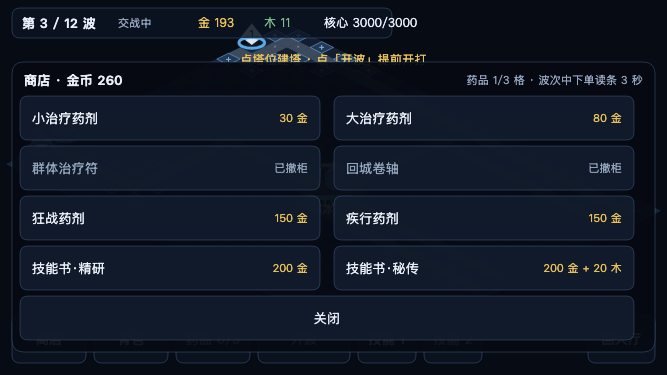
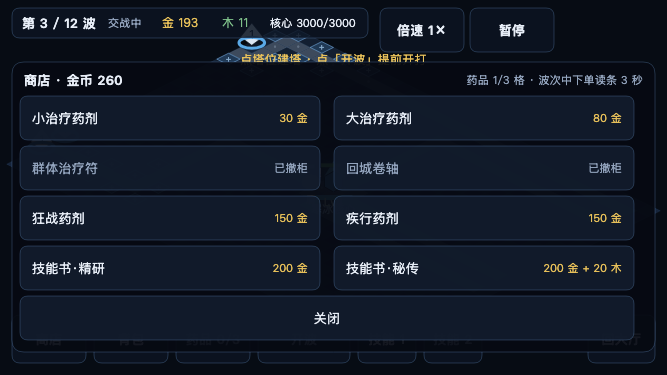
feat(minigame): 暂停 + 倍速 + 设置（第 3 步第六屏）
- 顶栏右侧加「倍速」「暂停」两键（避开胶囊区、44pt）：单机真暂停（帧循环不推内核）+ 1×/2× 倍速（每帧推两步，步长不变）
- 暂停面板三个开关都接着真东西：倍速→tick；镜头→settings.tdFitAll (fit / setCamera(zoom))；震动→settings.sfx→feedback 的 wx.vibrateShort
- **故意不摆** effects（低特效关的是飘字/脉冲，这版还没画飘字）与提示音（TD 本就没有）—— 开关必须能指出它改了哪件事
- 样张抓到一处排版：倍速键压住顶栏「核心 3000/3000」；顶栏收窄到 x=368 并加用例盯「不压顶栏、不压胶囊区」
- npm test 285 → 287 项（暂停面板布局 + 暂停/倍速/镜头/震动集成）
- 第六张样张 minigame-pause.png；本轮没碰浏览器侧代码

Changed region(s): [[0.3898, 0.0, 0.8396, 0.1467], [0.1499, 0.0293, 0.3598, 0.088], [0.7196, 0.0, 0.8096, 0.0293]]

diff --git a/src/minigame/battle.js b/src/minigame/battle.js
@@ -83,10 +83,17 @@ export function layoutBattle(model = {}) {
       { type: 'skill', index: i }, { disabled: !(model.skills?.[i] ?? i === 0) }));
   }
   items.push(item('lobby', 588, 315, 67, 48, '回大厅', { type: 'lobby' }));
+  /**
+   * 顶栏右侧那两个键：**倍速**与**暂停**（§1.9.3 的设置、§1.9.4 的「随时能停」）。
+   * 位置必须避开右上角胶囊区（官方要求），所以它们放在顶栏与胶囊之间那段空档里，高度给到 44（§1.9.2）。
+   */
+  items.push(item('speed', 380, 8, 84, 44, model.rate === 2 ? '倍速 2×' : '倍速 1×', { type: 'speed' }, { on: model.rate === 2 }));
+  items.push(item('pause', 470, 8, 84, 44, model.paused ? '继续' : '暂停', { type: 'pause' }, { on: !!model.paused }));
   return {
     w: DESIGN.w, h: DESIGN.h,
     capsule: { x: DESIGN.w - CAPSULE.w - 8, y: 6, w: CAPSULE.w, h: CAPSULE.h },
-    top: { x: 12, y: 8, w: 380, h: 30 },
+    // 顶栏只到 x=368：右边要留给倍速/暂停两个键（再往右是右上角胶囊区，官方要求避开）
+    top: { x: 12, y: 8, w: 356, h: 30 },
     result: { x: 173, y: 120, w: 320, h: 130 },
     items,
     byId: Object.fromEntries(items.map((it) => [it.id, it])),
@@ -114,11 +121,12 @@ export function drawBattleHud(ctx, m, L, { selectedTower = 'tw_arrow', message =
   ctx.strokeStyle = COLORS.panelLine;
   ctx.lineWidth = 1;
   ctx.stroke();
+  // 顶栏窄了（让出右边给倍速/暂停），所以这几格的位置跟着收——第一版没收，核心血量被按钮压住了
   text(ctx, `第 ${waveLabel}`, L.top.x + 10, L.top.y + 15, { size: 13, weight: 'bold' });
-  text(ctx, phase, L.top.x + 106, L.top.y + 15, { size: 11, color: COLORS.dim });
-  text(ctx, `金 ${Math.round(m.gold)}`, L.top.x + 186, L.top.y + 15, { size: 12, color: COLORS.gold });
-  text(ctx, `木 ${Math.round(m.lumber?.[0] ?? 0)}`, L.top.x + 252, L.top.y + 15, { size: 12, color: COLORS.wood });
-  text(ctx, `核心 ${core}`, L.top.x + 312, L.top.y + 15, { size: 12, color: m.core.hp / m.core.maxHp < 0.35 ? COLORS.danger : COLORS.ink });
+  text(ctx, phase, L.top.x + 96, L.top.y + 15, { size: 11, color: COLORS.dim });
+  text(ctx, `金 ${Math.round(m.gold)}`, L.top.x + 150, L.top.y + 15, { size: 12, color: COLORS.gold });
+  text(ctx, `木 ${Math.round(m.lumber?.[0] ?? 0)}`, L.top.x + 210, L.top.y + 15, { size: 12, color: COLORS.wood });
+  text(ctx, `核心 ${core}`, L.top.x + 258, L.top.y + 15, { size: 11, color: m.core.hp / m.core.maxHp < 0.35 ? COLORS.danger : COLORS.ink });
 
   for (const it of L.items) {
     const on = !!it.on;
@@ -234,6 +242,7 @@ export function layoutSheet(m, ui = {}) {
   if (ui?.sheetKind === 'shop') return layoutShop(m, ui);
   if (ui?.sheetKind === 'bag') return layoutBag(m, ui);
   if (ui?.sheetKind === 'item') return layoutItem(m, ui);
+  if (ui?.sheetKind === 'pause') return layoutPause(m, ui);
   const slot = ui.panelSlot ?? ui.selectedSlot ?? null;
   if (slot == null) return null;
   const t = m.towers.find((x) => x.slot === slot) ?? null;
@@ -389,6 +398,45 @@ export function layoutBag(m, ui = {}) {
     title: `背包 · ${m.inventory?.length ?? 0} 件（显示最近 ${Math.min(6, shown.length)} 件）`,
     hint: craft ? '' : '攒够 3 件同部位同品质即可一键合成',
     box: { x: 12, y: 62, w: 643, h: rowY + 44 + 12 - 62 },
+    rows, byId: Object.fromEntries(rows.map((r) => [r.id, r])),
+  };
+}
+
+/**
+ * 暂停面板（单机局才有意义：联机「不假装暂停」是 §114 那条口径；小游戏现在只有单机，所以这是真暂停）。
+ *
+ * 三个开关都**真的接在东西上**，不是摆样子：
+ *   倍速　→ 帧循环按 1× / 2× 推内核；
+ *   镜头　→ `settings.tdFitAll`（整图可见 / 放大到 settings.zoom），与浏览器版同一份设置；
+ *   震动　→ `settings.sfx` 经 `feedback.js` 的 `wx.vibrateShort`（同一份设置里的那个开关）。
+ * **没摆的两项**：`effects`（低特效档关的是飘字与脉冲，而小游戏这一版还没画飘字——摆了就是假选项）；
+ * 音效那一半要等防守模式的预警音（TD 本来就没有提示音）。
+ */
+export function layoutPause(m, ui = {}) {
+  const rows = [];
+  const sv = ui.settings ?? {};
+  rows.push({ id: 'resume', label: '继续游戏', x: 20, y: 96, w: 614, h: 44, action: { type: 'resume' } });
+  rows.push({
+    id: 'speed', label: '倍速', sub: ui.rate === 2 ? '2×' : '1×',
+    x: 20, y: 146, w: 300, h: 44, on: ui.rate === 2, action: { type: 'speed' },
+  });
+  rows.push({
+    id: 'camera', label: '镜头', sub: sv.tdFitAll === false ? '放大' : '整图',
+    x: 334, y: 146, w: 300, h: 44, on: sv.tdFitAll === false, action: { type: 'camera' },
+  });
+  rows.push({
+    id: 'sfx', label: '震动', sub: sv.sfx === false ? '关' : '开',
+    x: 20, y: 196, w: 300, h: 44, on: sv.sfx !== false, action: { type: 'sfx' },
+  });
+  rows.push({ id: 'lobby', label: '回大厅', x: 334, y: 196, w: 300, h: 44, action: { type: 'lobby' } });
+  rows.push({
+    id: 'close', label: '关掉面板（仍是暂停）', x: 20, y: 246, w: 614, h: 44, action: { type: 'close' },
+  });
+  return {
+    kind: 'pause',
+    title: '已暂停',
+    hint: `第 ${m.wave.index} / ${m.length === 'long' ? 30 : 12} 波 · 金币 ${Math.round(m.gold)}`,
+    box: { x: 12, y: 62, w: 643, h: 240 },
     rows, byId: Object.fromEntries(rows.map((r) => [r.id, r])),
   };
 }

diff --git a/src/minigame/game.js b/src/minigame/game.js
@@ -17,6 +17,8 @@ import {
   loadProfile, mapLocked, recordResult, reviveMulOf, saveProfile, startGoldOf, unlockedMaps,
 } from '../profile.js';
 import { resultSummary } from '../result.js';
+import { loadSettings, saveSettings } from '../settings.js';
+import { createHaptics } from '../feedback.js';
 import { createRenderer } from '../render.js';
 import { applyLobbyAction, drawLobby, hitTestLobby, layoutLobby } from './lobby.js';
 import {
@@ -86,6 +88,21 @@ export function startMinigame({ requestAnimationFrame: raf = globalThis.requestA
   let lobby = { model: createLobbyModel(), layout: null };
   let battle = null;
   let lastSize = '';
+  let settings = loadSettings();
+  // §1.9.2 的短震动：小游戏这次真的接上了（浏览器版靠 DOM 点击事件，这边按 touch 手动触发）
+  const tap = createHaptics({ enabled: () => settings.sfx !== false });
+
+  /** 镜头设置（§2.5）：整图可见 = `renderer.fit()`；放大 = 以核心为中心用 `settings.zoom` */
+  const applyCamera = (b) => {
+    const grid = b?.m?.map?.grid;
+    if (!grid) return;
+    if (settings.tdFitAll === false) {
+      const core = b.m.core?.cell ?? { x: grid.w / 2, y: grid.h / 2 };
+      b.renderer.setCamera(core.x, core.y, settings.zoom ?? 1.5);
+    } else {
+      b.renderer.fit(grid);
+    }
+  };
 
   const resize = () => {
     size = viewport();
@@ -119,9 +136,11 @@ export function startMinigame({ requestAnimationFrame: raf = globalThis.requestA
       m, renderer, selectedTower: 'tw_arrow', message: null, until: 0, layout: null,
       ui: { selectedSlot: null, panelSlot: null, sellArmed: false },
       extra: null,     // 结算那一下记档的收获（声望 / 升级），画面板用
+      paused: false, rate: 1,
     };
+    applyCamera(b);
     b.model = () => ({
-      ...describeBattleModel(m), selectedTower: b.selectedTower,
+      ...describeBattleModel(m), selectedTower: b.selectedTower, paused: b.paused, rate: b.rate,
       ui: b.ui, sheet: layoutSheet(m, b.ui),
     });
     b.layout = layoutBattle(b.model());
@@ -146,9 +165,17 @@ export function startMinigame({ requestAnimationFrame: raf = globalThis.requestA
     }
     const action = hitTestBattle(b.layout, x, y);
     if (action) {
+      tap('light');   // §1.9.2：按下就震一下（开关在暂停面板里，关掉就静默）
       switch (action.type) {
         case 'shop': b.ui = { sheetKind: 'shop' }; return action;
         case 'bag': b.ui = { sheetKind: 'bag' }; return action;
+        case 'speed': b.rate = b.rate === 2 ? 1 : 2; return action;
+        case 'pause': {
+          // 单机局真暂停（联机才不谈暂停，§114）；暂停时顺手把面板摊开——玩家按暂停多半是想看点东西
+          b.paused = !b.paused;
+          b.ui = b.paused ? { sheetKind: 'pause' } : { selectedSlot: null, panelSlot: null, sellArmed: false };
+          return action;
+        }
         case 'potion': {
           const id = b.m.bag.pot_small ? 'pot_small' : (b.m.bag.pot_large ? 'pot_large' : null);
           const ok = id ? usePotion(b.m, id) : false;
@@ -261,6 +288,24 @@ export function startMinigame({ requestAnimationFrame: raf = globalThis.requestA
         b.ui = { sheetKind: 'bag' };
         return action;
       }
+      // ---- 暂停面板上的四个动作 ----
+      case 'resume':
+        b.paused = false;
+        b.ui = { selectedSlot: null, panelSlot: null, sellArmed: false };
+        return action;
+      case 'camera': {
+        settings = { ...settings, tdFitAll: settings.tdFitAll === false };
+        saveSettings(settings);
+        applyCamera(b);
+        note(b, settings.tdFitAll ? '镜头：整图可见' : '镜头：放大', 1.4);
+        return action;
+      }
+      case 'sfx': {
+        settings = { ...settings, sfx: settings.sfx === false };
+        saveSettings(settings);
+        note(b, settings.sfx === false ? '震动已关' : '震动已开', 1.4);
+        return action;
+      }
       default: return action;
     }
   };
@@ -308,6 +353,7 @@ export function startMinigame({ requestAnimationFrame: raf = globalThis.requestA
   /** 推进内核（小游戏里由帧循环按真实时间驱动；本地验收里手动调它） */
   const tick = (seconds) => {
     if (!battle) return 0;
+    if (battle.paused || battle.m.result) return 0;   // 真暂停：内核一步都不走
     const steps = Math.round(seconds / TICK_STEP);
     for (let i = 0; i < steps && !battle.m.result; i += 1) update(battle.m, TICK_STEP);
     recordIfFinished(battle);
@@ -337,7 +383,7 @@ export function startMinigame({ requestAnimationFrame: raf = globalThis.requestA
   const frame = (ts = 0) => {
     if (battle) {
       const dt = last ? Math.min(0.25, (ts - last) / 1000) : 0;
-      if (dt > 0) tick(dt);
+      if (dt > 0) tick(dt * (battle.rate ?? 1));   // 倍速就是「这一帧推两步」（内核步长仍是 1/20 秒）
     }
     last = ts;
     drawFrame();

diff --git a/tests/minigame-battle.test.js b/tests/minigame-battle.test.js
@@ -15,7 +15,7 @@ import { installFakeWx } from '../tools/fake-wx.mjs';
 import { TOWER_MAX_LEVEL } from '../src/data.js';
 import { createMatch, makeEquipment, potionCount, update } from '../src/match.js';
 import { SHOP_ITEMS } from '../src/data.js';
-import { drawResult, layoutBag, layoutItem, layoutResult, layoutShop } from '../src/minigame/battle.js';
+import { drawResult, layoutBag, layoutItem, layoutPause, layoutResult, layoutShop } from '../src/minigame/battle.js';
 
 // 与 minigame-bundle.test.js 同一个道理：**各有各的产物目录**，否则并发跑会互相踩
 const OUT = mkdtempSync(join(tmpdir(), 'ff-mini-battle-'));
@@ -335,5 +335,66 @@ test('小游戏结算：一局结束后真的记档（声望 +120、解锁与大
     app.backToLobby();
     assert.equal(app.screen(), 'lobby');
     assert.equal(app.getModel().profile.reputation, 120);
+  } finally { fake.uninstall(); }
+});
+
+test('小游戏暂停面板：行都在画布内且 ≥44，倍速/镜头/震动按当前设置显示', () => {
+  const m = createMatch({ seed: 5 });
+  const sheet = layoutPause(m, { rate: 2, settings: { tdFitAll: false, sfx: false } });
+  assert.equal(sheet.kind, 'pause');
+  assert.equal(sheet.rows.length, 6, '继续 / 倍速 / 镜头 / 震动 / 回大厅 / 关面板');
+  for (const r of sheet.rows) {
+    assert.ok(r.h >= 44 && r.y + r.h <= DESIGN.h, `${r.id} 行高或位置不达标`);
+    assert.ok(!(r.x < 448 && r.y < 52 && r.x + r.w > 396), `${r.id} 压到顶栏那两个键上`);
+  }
+  assert.equal(sheet.byId.speed.sub, '2×');
+  assert.equal(sheet.byId.camera.sub, '放大', 'tdFitAll=false 时是放大');
+  assert.equal(sheet.byId.sfx.sub, '关');
+  assert.equal(sheet.byId.resume.label, '继续游戏');
+});
+
+test('小游戏暂停与倍速：暂停时内核一步不走，倍速按倍数走，镜头/震动落进设置', async () => {
+  await import('../tools/build-minigame.mjs');
+  const vib = [];
+  const fake = installFakeWx({ onVibrate: (o) => vib.push(o.type) });
+  try {
+    const require = createRequire(import.meta.url);
+    require(join(OUT, 'game.js'));
+    const app = globalThis.__frostfallLobby;
+    app.startMatch();
+    const m = app.match();
+    const tapBtn = (id) => {
+      const b = app.layout().byId[id];
+      assert.ok(b, `顶栏/底排没有 ${id}`);
+      return app.tap(b.x + b.w / 2, b.y + b.h / 2);
+    };
+    // 暂停 → 时间不动
+    tapBtn('pause');
+    assert.equal(app.getModel().paused, true);
+    assert.equal(app.getModel().sheet.kind, 'pause');
+    const t0 = m.time;
+    app.tick(30);
+    assert.equal(m.time, t0, '暂停时内核一步都不该走');
+
+    // 镜头：切成放大 → 设置里 tdFitAll=false
+    const cam = app.getModel().sheet.byId.camera;
+    app.tap(cam.x + cam.w / 2, cam.y + cam.h / 2);
+    assert.equal(JSON.parse(globalThis.wx.getStorageSync('frostfall:settings') || '{}').tdFitAll, false);
+    // 震动：关掉之后不再调 wx.vibrateShort
+    const sfx = app.getModel().sheet.byId.sfx;
+    app.tap(sfx.x + sfx.w / 2, sfx.y + sfx.h / 2);
+    assert.equal(JSON.parse(globalThis.wx.getStorageSync('frostfall:settings') || '{}').sfx, false);
+    const callsAfterMute = vib.length;
+    const resume = app.getModel().sheet.byId.resume;
+    app.tap(resume.x + resume.w / 2, resume.y + resume.h / 2);
+    assert.equal(app.getModel().paused, false, '继续之后要恢复推进');
+    assert.equal(vib.length, callsAfterMute, '关掉震动之后按按钮不该再震');
+
+    // 倍速：同一段时间走两步
+    tapBtn('speed');
+    assert.equal(app.getModel().rate, 2);
+    const t1 = m.time;
+    app.tick(10);
+    assert.ok(Math.abs((m.time - t1) - 10) < 0.2, `倍速下 tick(10) 该走 10 秒（实际 ${(m.time - t1).toFixed(1)}）`);
   } finally { fake.uninstall(); }
 });

diff --git a/docs/STATUS.md b/docs/STATUS.md
@@ -21,7 +21,7 @@
 ## 2. 一条命令复跑全部验证
 
 ```bash
-npm test        # 285 项：数值 / 波次 / 经济 / 装备 / 天赋 / 技能细节 / 存档 / 联机 / 快速匹配 / 触觉反馈 / 摇杆指令 / 溅射衰减 / 药品计数 / 解锁来源与流水 / 野外区分区 / 亚格渲染 / 克制提示 / 局内资源不外流 / 仇恨 1 秒 / 野外区文案 / 战绩分模式 / 面板可见性 / 浮层收起 / 房间码提示 / 空房保留窗口 / 联机指令出口（handler 逐个查）/ 畸形指令与限速 / 克制表与枚举对齐 / 联机镜像不落本地存档（§113） / 大厅按模式给选项（§115：防守没有「局内时长」） / 低特效档真的关脉冲（§116） / 怪物光环按半径结算（§117） / Boss 光环按地图开关（§118） / 逻辑帧步长只有一个定义（§119） / 协议版本两侧校验（§120） / 畸形 URL 参数不崩服务端（§121） / 别人的名字不执行（§122） / 名字长度截断（§122） / 畸形指令值不崩服务端（§123） / 房间码不可枚举（§124） / 名单不广播 uid（§125） / 调试钩子默认关（§126）与「只在本地生效」（§197）/  免费期无付费入口（§128） / 联机结算面板也写「声望 +N」（§130） / 通关转无尽的出口（§131） / 精研技能书真的 +1 级（§132） / 狂战药剂真的持续 30 秒（§133） / 防守模式 buff 生效与疾风步移速（§134） / 两模式英雄 tick 职责对齐（§135） / 亡语分裂在防守里也生效（§136） / 防守的怪也吃减速眩晕 DoT（§137） / 防守内容不许带未实现能力（§138） / 「继续上局」只在**真读得出来**时出现（§139 + §204） /  **疾行药剂在两个模式都生效（§144） / **回城冷却进存档且真的走满 30 秒（§147） / **联机修塔真的生效、TD 专属指令在防守房被拒（§148） / **联机结算的伤害占比不为空、防守占比条写中文名（§149） / **结算面板的掉落栏写中文名（§151） / **快速匹配排队时写明「在等」（§152） / **新手引导的门槛与「重看」（§153） / **文案里的数字与数据表对账（§155） / ****临时端口串门与僵尸根因（§157）** / **4★-6★ 图能从大厅选到（§158） / **真机视口下大厅动作行粘底（§159） / **结算面板出口也粘底（§160） / **真机视口下防守 HUD 紧凑排布（§161） / **真机视口下引导条不压操作行（§162） / **联机长局镜像换成 30 波表（§163）/**§130 偶发红改成确定性（§164） / **联机怪物血条分母（§165）** / **联机房英雄职业进配置（§166）** / **浸泡不变量补五项（§167） / **真机视口下防守人体工学（§168）** / **§2.2 地图表逐列对账（§169） / **其余五张数值表逐列对账（§170） / **真机上的双指缩放与双击回核心（§171） / **把量出的偏差写回设计文档（§172） / **复跑三张数字表（§173） / **协议消息类型两边都要有人用（§174） / **零读者的导出扫干净（§175）** / **用到的 class 都有样式规则（§176）** / **客户端开局参数归一化（§177：坏 URL 不白屏 + 不污染档案）** / **缺 seed 的房间不再是常数种子（§177）** / **提示音在真机手势里解锁、日志不再谎报（§178）** / **真机手势卫生：连点技能键/长按不再被浏览器抢走（§180）** / **HUD 按安全区收边、不再压进刘海（§181）** / **冒烟的 CDP 请求加上限、不再偶发挂死（§182）** / **存不了档时说一声（§183）** / **大厅里不再偷偷打那一局（§184：不跑模拟、不出怪、不记档）** / **竖屏兜底「请横屏」（§185）**…
+npm test        # 287 项：数值 / 波次 / 经济 / 装备 / 天赋 / 技能细节 / 存档 / 联机 / 快速匹配 / 触觉反馈 / 摇杆指令 / 溅射衰减 / 药品计数 / 解锁来源与流水 / 野外区分区 / 亚格渲染 / 克制提示 / 局内资源不外流 / 仇恨 1 秒 / 野外区文案 / 战绩分模式 / 面板可见性 / 浮层收起 / 房间码提示 / 空房保留窗口 / 联机指令出口（handler 逐个查）/ 畸形指令与限速 / 克制表与枚举对齐 / 联机镜像不落本地存档（§113） / 大厅按模式给选项（§115：防守没有「局内时长」） / 低特效档真的关脉冲（§116） / 怪物光环按半径结算（§117） / Boss 光环按地图开关（§118） / 逻辑帧步长只有一个定义（§119） / 协议版本两侧校验（§120） / 畸形 URL 参数不崩服务端（§121） / 别人的名字不执行（§122） / 名字长度截断（§122） / 畸形指令值不崩服务端（§123） / 房间码不可枚举（§124） / 名单不广播 uid（§125） / 调试钩子默认关（§126）与「只在本地生效」（§197）/  免费期无付费入口（§128） / 联机结算面板也写「声望 +N」（§130） / 通关转无尽的出口（§131） / 精研技能书真的 +1 级（§132） / 狂战药剂真的持续 30 秒（§133） / 防守模式 buff 生效与疾风步移速（§134） / 两模式英雄 tick 职责对齐（§135） / 亡语分裂在防守里也生效（§136） / 防守的怪也吃减速眩晕 DoT（§137） / 防守内容不许带未实现能力（§138） / 「继续上局」只在**真读得出来**时出现（§139 + §204） /  **疾行药剂在两个模式都生效（§144） / **回城冷却进存档且真的走满 30 秒（§147） / **联机修塔真的生效、TD 专属指令在防守房被拒（§148） / **联机结算的伤害占比不为空、防守占比条写中文名（§149） / **结算面板的掉落栏写中文名（§151） / **快速匹配排队时写明「在等」（§152） / **新手引导的门槛与「重看」（§153） / **文案里的数字与数据表对账（§155） / ****临时端口串门与僵尸根因（§157）** / **4★-6★ 图能从大厅选到（§158） / **真机视口下大厅动作行粘底（§159） / **结算面板出口也粘底（§160） / **真机视口下防守 HUD 紧凑排布（§161） / **真机视口下引导条不压操作行（§162） / **联机长局镜像换成 30 波表（§163）/**§130 偶发红改成确定性（§164） / **联机怪物血条分母（§165）** / **联机房英雄职业进配置（§166）** / **浸泡不变量补五项（§167） / **真机视口下防守人体工学（§168）** / **§2.2 地图表逐列对账（§169） / **其余五张数值表逐列对账（§170） / **真机上的双指缩放与双击回核心（§171） / **把量出的偏差写回设计文档（§172） / **复跑三张数字表（§173） / **协议消息类型两边都要有人用（§174） / **零读者的导出扫干净（§175）** / **用到的 class 都有样式规则（§176）** / **客户端开局参数归一化（§177：坏 URL 不白屏 + 不污染档案）** / **缺 seed 的房间不再是常数种子（§177）** / **提示音在真机手势里解锁、日志不再谎报（§178）** / **真机手势卫生：连点技能键/长按不再被浏览器抢走（§180）** / **HUD 按安全区收边、不再压进刘海（§181）** / **冒烟的 CDP 请求加上限、不再偶发挂死（§182）** / **存不了档时说一声（§183）** / **大厅里不再偷偷打那一局（§184：不跑模拟、不出怪、不记档）** / **竖屏兜底「请横屏」（§185）**…
 npm run soak    # 180 局全组合浸泡：运行期不变量 + 存档不动点 + 客户端镜像一致性
 npm run smoke   # 378 条真浏览器断言（**三个视口**、十一个面；含快速匹配、内存告警降级、真按下的短震动链路、防守摇杆拖动、点空地的塔位提示、克制提示与护甲预告、野外区掉落加成、防守战绩口径、日志面板让位/恢复、跨局浮层收起、攻城图的修塔按钮、秘传技能书的技能栏变化、优先级/速度/围墙/重置进度、HUD 数值跟随（7+3 处）、塔面板 X 与标题、再开一局、长局 30 波 HUD、真机视口下的轮盘/塔面板、房间码提示与镜像对齐、进不去房间转单人继续、被动掉线自动重连、**六条联机指令真的到服务端**、**§113 联机点「回大厅/再开一局」真的离房**、**§114 联机不假装暂停/加速、掉线写清 5 分钟**/**§115 防守模式不摆「局内时长」假选项**/**§116 低特效档真的关脉冲**/**§145 每次版式体检都查「两块 HUD 浮层不许叠在一起」**/**§153 新手引导门槛与「重看」（§153）/**设置面板按模式取舍选项（§154）/**文案里的数字与数据表对账（§155）**/**临时端口串门与僵尸根因（§157）/**4★-6★ 图能从大厅选到（§158）/**真机视口下大厅动作行粘底（§159）/**结算面板出口也粘底（§160）**/**真机视口下防守 HUD 紧凑排布（§161）**/**真机视口下引导条不压操作行（§162）/**联机长局镜像换成 30 波表（§163）/**§130 偶发红改成确定性（§164）/**联机怪物血条分母（§165）**/**联机房英雄职业进配置（§166）**/**浸泡不变量补五项（§167）/**真机视口下防守人体工学（§168）**/**§2.2 地图表逐列对账（§169）/**其余五张数值表逐列对账（§170）/**真机上的双指缩放与双击回核心（§171）**/**客户端坏 URL 不白屏（§177）**/**提示音在真机策略下真的响了（§178）**/**真机手势卫生（§180）**/**HUD 不进刘海安全区（§181）**/**大厅不跑模拟（§184）**/**竖屏有「请横屏」兜底（§185）**/**低端 4G 模拟下首屏 ≤3 秒（§186）** / **「再开一局」连打的第二局也记档（§188）** / **浏览器里真的把 12 波打完、结算与档案都对（§189）** / **防守也真的守满 4 轮；城堡陷落后「继续（无尽）」不再挂着（§190）** / **长局 30 波也在浏览器里真的打完（§191，含一条参考打法在 4★ 长局末波输掉的观测）** / **中途加入已在打的房（§192）** / **§130 那条「声望 +N」的偶发红改成确定性（§193：根因是房间空着时就记了结算）** / **`sim` 调试钩子只在本地生效（§197：补上 §126 那条「非 URL 开关」的规矩）** / **连打不涨：6 局 DOM/堆都平，并把「每局不长 DOM」钉进冒烟（§198）** / **服务端不再攒退役房间（§199：删掉只写不读的 `stopped` 表）** / **画布内容与「画面在动」也有检查了（§200–§202）** / **第三个视口 568×320（§203）** / **「能读的才算有存档」补齐后半（§204）** / **档案形状归一化（§205）** / **日志面板的 innerHTML 先转义（§206：那一处最容易新增玩家名字）**
 npm run waves   # §8.5 逐波余量（4 人基准）
@@ -194,7 +194,7 @@ npm run bench / bandwidth   # 容量 / 带宽预算（§110/§111：两个工具
 |---|---|---|---|
 | 1 | **按 `game-design.md` 的已确认需求开发** | ✅ | 设计文档里**打勾的验收清单**逐条有实现与检查（见 §1 那张表）；**所有数值表逐列对过账**（§169/§170，改一处就红）；**原「等拍板」的 33 条已全部拍板并落地**（§3.1 + 验证记录 §207–§209；文档类的 20 条在附录 B/C 与对应小节补了口径） |
 | 2 | **一直开发到能玩为止** | ✅ | 浏览器里**真的**跑通过整条链路：TD 短局通关（§189：7.4 分钟、结算面板、记档、解锁 map_02）、防守守满 4 轮转无尽（§190）、**长局 30 波**（§191：32.5 分钟）；联机建房 / 快速匹配 / 中途加入第 3 波（§192）/ 掉线重连 / 离场（§102/§113/§114）；三个视口（1334×750 / 667×375 / **568×320**）的版式与人体工学（§203、§145）；手机竖屏有「请横屏」兜底（§185） |
-| 3 | **自己去验证错误** | ✅ | 验证记录 **§1–§219**：每条发现都带「一个能失败的检查」+ 变异反证；最新一轮全量复跑：`npm test` **285 项** · `npm run smoke` **378 条**（三个视口、十一个面）· `soak` 180 局（119 胜 61 负，不变量一条没破）· `matrix` 全绿（**并检查首发三图普通档 8-12 分钟**）· `defense` 12.7 分钟/4 轮 · `waves` 12/12 · `defense-matrix` 36 局守住 22（**验收线 8 格全过**）· `bandwidth` 6.61 KB/s（预算 15）· `bench` 1699k 实体·帧/秒 · `tutorial` 3/3 达标 |
+| 3 | **自己去验证错误** | ✅ | 验证记录 **§1–§220**：每条发现都带「一个能失败的检查」+ 变异反证；最新一轮全量复跑：`npm test` **287 项** · `npm run smoke` **378 条**（三个视口、十一个面）· `soak` 180 局（119 胜 61 负，不变量一条没破）· `matrix` 全绿（**并检查首发三图普通档 8-12 分钟**）· `defense` 12.7 分钟/4 轮 · `waves` 12/12 · `defense-matrix` 36 局守住 22（**验收线 8 格全过**）· `bandwidth` 6.61 KB/s（预算 15）· `bench` 1699k 实体·帧/秒 · `tutorial` 3/3 达标 |
 
 **仍然在别人手里的（不是欠债，是等输入）**：
 

diff --git a/docs/minigame-port.md b/docs/minigame-port.md
@@ -184,8 +184,24 @@ npm test                  # 277 项：大厅 7 条 + 战场 5 条（含「在假
 ## 7. 现在能跑通的命令
 
 ```bash
-npm run minigame      # 打包 + 假 wx 本地验收（等价性 / 模块清单 / 大厅画出来了 / 触摸能选中）
-npm run minigame:preview  # 本机 Chrome 出大厅样张（docs/testing/screenshots/minigame-lobby.png）
-npm test              # 272 项，含打包产物与大厅那一屏的检查
-npm run smoke         # 378 条真浏览器断言（浏览器那一侧的界面仍然按浏览器验）
+npm run minigame          # 打包 + 假 wx 本地验收（6 条：环境自检 / 内核等价性 / 模块清单 / 大厅画出来了 / 触摸能选中 / 点开局能进局）
+npm run minigame:preview  # 本机 Chrome 出六张样张（docs/testing/screenshots/minigame-*.png）
+npm test                  # 287 项，含小游戏这几屏的布局 / 命中 / 状态迁移 / 记档
+npm run smoke             # 378 条真浏览器断言（浏览器那一侧的界面仍然按浏览器验）
 ```
+
+### 5.2.4 暂停 + 倍速 + 设置（已完成 · 2026-09-23）
+
+![小游戏暂停样张](testing/screenshots/minigame-pause.png)
+
+顶栏右侧多了 **倍速** 与 **暂停** 两个键（位置避开右上角胶囊区，高度 44pt）：
+
+* **暂停**：单机局**真暂停**（帧循环一步都不推内核，画面照旧画）。联机「不假装暂停」那条口径（§114）等联机接进来时再按模式区分。
+* **暂停面板**里三项开关**都真的接着东西**，不是摆样子：
+  倍速（1× / 2×，帧循环按倍数推内核）、镜头（`settings.tdFitAll`：整图可见 / 以核心为中心放大到 `settings.zoom`，与浏览器版同一份设置）、
+  震动（`settings.sfx` 经 `feedback.js` 的 `wx.vibrateShort`——小游戏这次真的把短震动接上了）。
+* **没摆的两项**：`effects`（低特效档关的是飘字与脉冲，而这一版还没画飘字——摆上去就是假选项）；
+  提示音（TD 本来就没有提示音，要等防守模式的预警音）。
+
+顺带修了一处「加了按钮忘了收顶栏」的排版问题：倍速键一开始压住了顶栏的「核心 3000/3000」，
+样张里一眼可见；现在顶栏收窄到 x=368、里面几格的间距跟着重排，并有用例盯着「按钮不压顶栏、不压胶囊区」。
